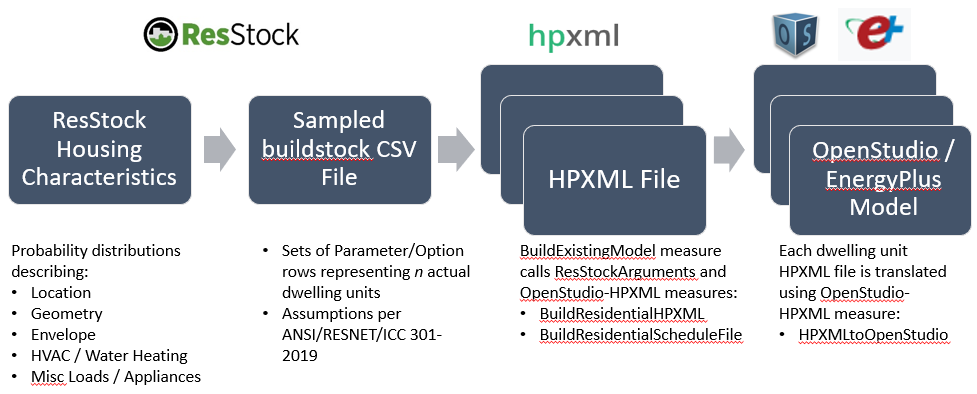
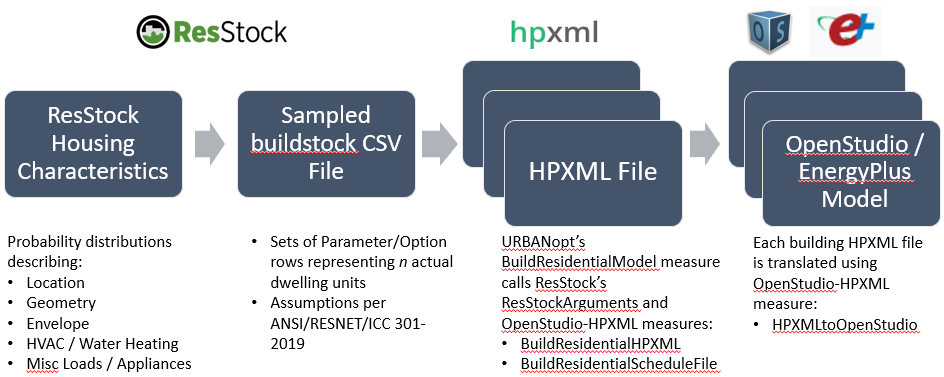
Update the workflow graphic.

diff --git a/workflows/residential_workflows/building_inputs.md b/workflows/residential_workflows/building_inputs.md
@@ -99,7 +99,7 @@ ResStock maps individual dwelling unit samples into OpenStudio-HPXML argument va
 - [ResStockArguments](https://github.com/NREL/resstock/tree/develop/measures/ResStockArguments) OpenStudio measure.
 
 Each row of the buildstock CSV file, therefore, becomes a representative building model created from mapped model input values.
-The general OpenStudio-HPXML/ResStock workflow is depicted in the flow chart below.
+The basic OpenStudio-HPXML/ResStock/URBANopt workflow is depicted in the flow chart below.
 
 ![os-hpxml-resstock-workflow](../../doc_files/os-hpxml-resstock-workflow.png)
 
